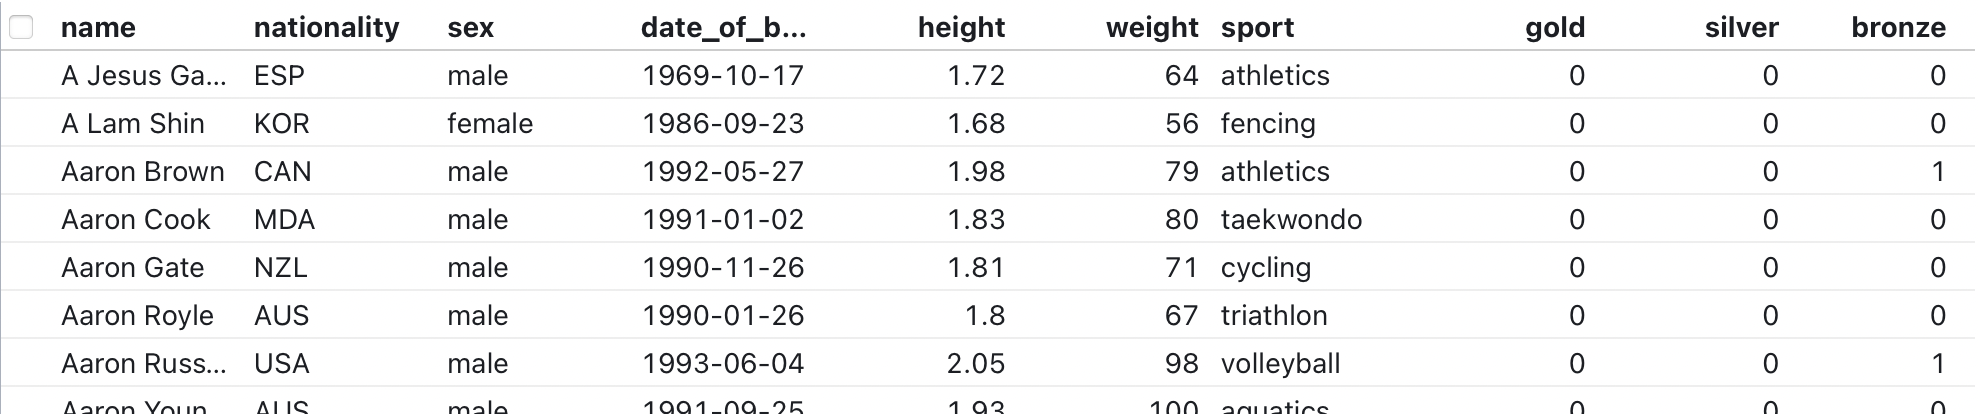
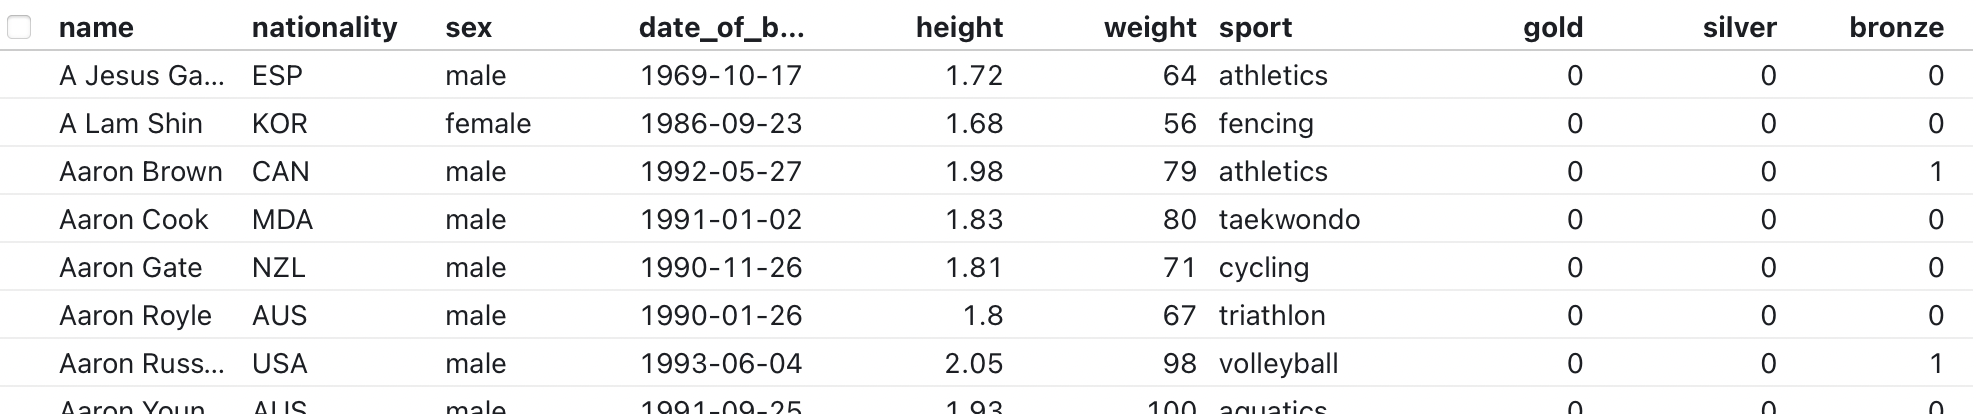
Update README

diff --git a/README.md b/README.md
@@ -65,7 +65,7 @@ The Select input allows the user to choose one of a given set of options; or, if
 
 ### Table
 
-<img src="./img/table.png" alt="A Table input showing rows of Olympic athletes" width="989">
+<img src="./img/table.png" alt="A Table input showing rows of Olympic athletes" width="988">
 
 The Table input displays a tabular dataset. The value of the Table is the selected rows, a filtered (and possibly sorted) view of the input data: rows can be selected by clicking or shift-clicking checkboxes.
 
